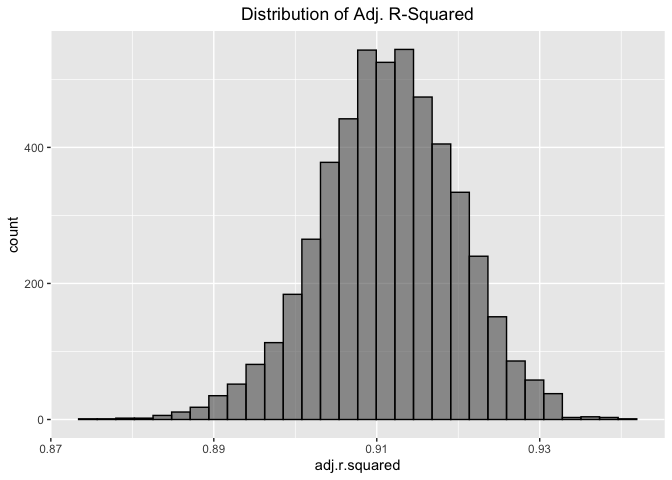
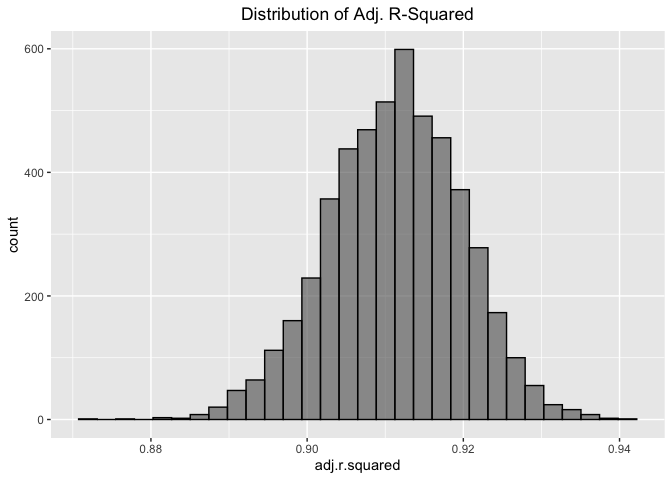
last commit- final edits

diff --git a/HW6_ac4635.md b/HW6_ac4635.md
@@ -136,6 +136,7 @@ birthweight_df =
             
 ##Check for missing values - None 
 sum(!complete.cases(birthweight_df))
+purrr::map(birthweight_df, ~ sum(is.na(.)))
 
 ## Check distributions and variable typles 
 birthweight_df %>%
@@ -178,13 +179,16 @@ birthweight_df %>%
   theme(plot.title = element_text(hjust = 0.5))
 ```
 
-The first was fitting a full model that contains all variables provided
-and then I used a backward function to perform a backward stepwise
-regression to removed variables that are insignifcant with the outcome
-of interest, baby’s birth weight. When I performed this stepwise
-regression method, the babysex, bhead, blength, delwt, fincome, gaweeks,
-mheight, mrace, parity, ppwt, and smoken variables were included into
-the best fit model to compare with other models.
+The birthweight dataset contains 4342 rows and 20 column with no missing
+values.
+
+The first step for regression was fitting a full model that contains all
+variables provided and then I used a backward function to perform a
+backward stepwise regression to removed variables that are insignifcant
+with the outcome of interest, baby’s birth weight. When I performed the
+stepwise regression method, the babysex, bhead, blength, delwt, fincome,
+gaweeks, mheight, mrace, parity, ppwt, and smoken variables were
+included into the best fit model to compare with other models.
 
 The residuals vs fitted values plot displays constant variance and that
 the majority of the residuals fall around
@@ -351,7 +355,7 @@ product plot had a peak between 2.00 and 2.025.
     ## # A tibble: 1 x 2
     ##   rsquared_CI_low rsquared_CI_upper
     ##             <dbl>             <dbl>
-    ## 1           0.894             0.928
+    ## 1           0.894             0.927
 
 ``` r
 ## CI for Log Parameter Product
@@ -367,5 +371,5 @@ estimate_df %>%
     ##             <dbl>             <dbl>
     ## 1            1.97              2.06
 
-The 95% CI of the adjusted r-squared is 0.8942087, 0.9277535 and of log
-of the product is 1.965802, 2.0596902.
+The 95% CI of the adjusted r-squared is 0.8943948, 0.9275706 and of log
+of the product is 1.9650242, 2.0591873.
